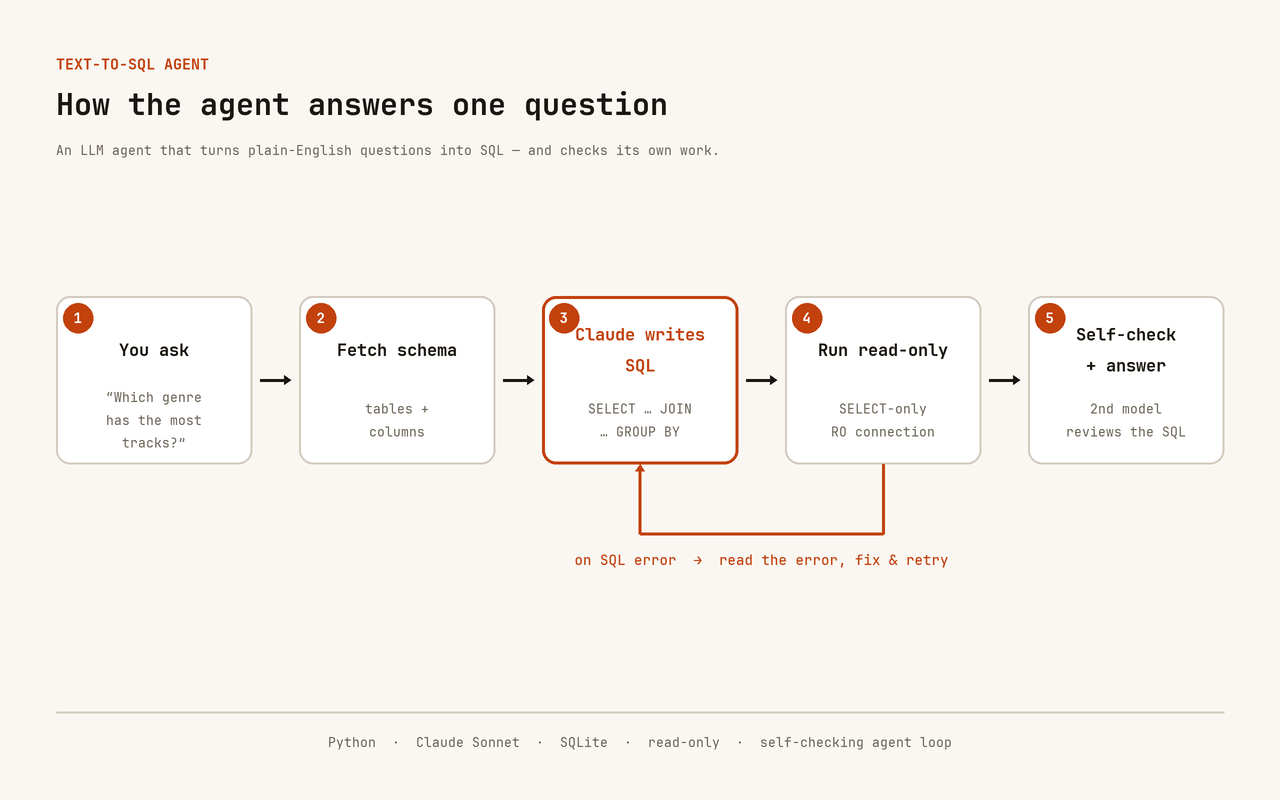
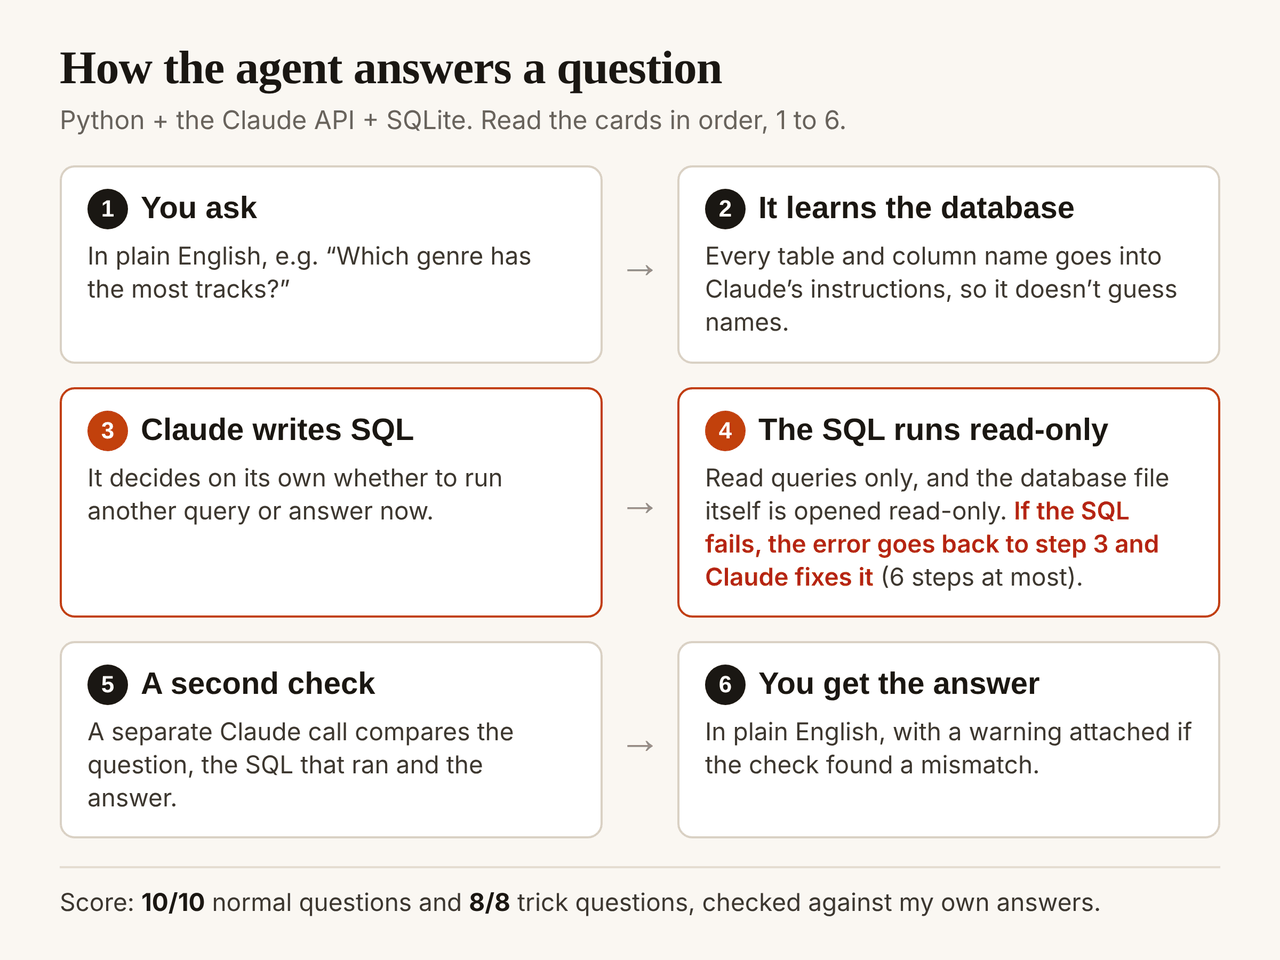
Plainer case-study copy and a readable Text-to-SQL diagram
Explain GMV, deciles and AUC in the bullets instead of assuming them,
merge the two round-two Knovus bullets, and swap the agent diagram for
one whose text is legible at column width. Olist: the customer deciles
rank orders (Olist's customer_id is per order), so say orders.

diff --git a/index.html b/index.html
@@ -111,10 +111,9 @@
                     actually answer them, fix what isn&rsquo;t working, and prove the fix works.
                 </p>
                 <ul class="findings">
-                    <li>Sampled 90 stored questions across 16 courses, each judged by three independent reviews: <strong>53% couldn&rsquo;t be fully attempted</strong>. The cause was a schema with no field for the full question, not the model.</li>
-                    <li>Wrote my manager a two-option proposal; he chose grading each question off its original page, which I built, so about <strong>2,400 existing questions needed no re-extraction</strong>. It was merged into the production branch on Sep 28, and he built on it with PowerPoint and Word previews.</li>
-                    <li>A page often holds several questions, so in round two I rebuilt each one as its own card, copied word for word from the file and checked by 9 rules plus a model, falling back to the original page when in doubt.</li>
-                    <li>Tested on 60 random production questions: <strong>37 clean cards, 0 serious errors</strong>, all 54 mistakes I planted caught, for about $0.37 in model calls. The one miss: it rejected 1 of 8 cards that were already right. Merged and switched on by default Oct 22; the team has since extended and reworked it.</li>
+                    <li>Sampled 90 stored questions across 16 courses, each judged by three independent reviews: <strong>53% couldn&rsquo;t be fully attempted</strong>. The cause wasn&rsquo;t the AI model: the format the questions were saved in had no place for the full question text.</li>
+                    <li>Wrote my manager a two-option proposal; he chose grading each question against its original page in the course file, which I built, so about <strong>2,400 existing questions kept working without being reprocessed</strong>. It was merged into the production code on Sep 28, and he built on it with PowerPoint and Word previews.</li>
+                    <li>A page often holds several questions, so in round two I turned each one into its own card, copied word for word and checked by 9 rules plus a model. On 60 random production questions: <strong>37 clean cards, 0 serious errors</strong>, all 54 mistakes I planted caught, for about $0.37 in model calls (it also wrongly rejected 1 of 8 cards that were already right). Merged and switched on by default Oct 22; the team has since reworked it.</li>
                     <li>My first grader evaluation scored a suspicious <strong>100%</strong> across 120 gradings, so I reported it as a failed test and made the cases harder. That exposed a false positive in the cheaper grader (1 of 20 wrong answers marked right), so the grader that shipped is the slower one that solves the problem first: <strong>0&nbsp;of&nbsp;20</strong>.</li>
                     <li>18 commits merged into the production branch across the FastAPI backend and Next.js frontend, including about 250 tests.</li>
                 </ul>
@@ -140,14 +139,14 @@
                 <h3>Amazon Revenue Analytics</h3>
                 <p class="standfirst">
                     Where does revenue concentrate, what&rsquo;s at risk next quarter, and where
-                    should the category budget go? A three-layer BI framework over 5,026 U.S.
-                    Amazon households, 2018–2022 — about 1.85M transactions.
+                    should the category budget go? Answered in SQL and Python on about 1.85M
+                    purchases from 5,026 U.S. Amazon households, 2018–2022.
                 </p>
                 <ul class="findings">
-                    <li>Top 10% of households drive <strong>35.9% of GMV</strong> (Gini 0.528) — and the gap is ~95% purchase frequency, not basket size.</li>
-                    <li>Mid-spend deciles 6–9 hold <strong>64% of revenue-at-risk</strong> on just 14% of GMV — the households worth protecting aren&rsquo;t the top spenders.</li>
+                    <li>The top 10% of households account for <strong>35.9% of all spending</strong> (Gini 0.528), and about 95% of their lead comes from ordering more often, not from bigger orders.</li>
+                    <li>The middle-to-lower spenders (deciles 6–9 of 10) hold <strong>64% of next quarter&rsquo;s revenue-at-risk</strong> on just 14% of spending, so the households worth protecting aren&rsquo;t the top spenders.</li>
                     <li>Caught a silent data failure midway: the raw file had been cut at a spreadsheet&rsquo;s <strong>1,048,576-row limit</strong>, dropping 43% of rows. Re-ran everything on the full file and added a preflight that fails loudly on a partial one.</li>
-                    <li>The drop-off model holds up on households it never saw: <strong>AUC 0.90</strong> under 5-fold cross-validation, versus 0.53 with shuffled labels. Bootstrap 95% CIs on the demographic, model and category results, and SQL and Python cross-check each other on every aggregate.</li>
+                    <li>The drop-off model holds up on households it never saw: <strong>AUC 0.90</strong>, where 0.5 is a coin flip (and 0.53 when trained on shuffled outcomes). Key results carry 95% confidence intervals, and SQL and Python cross-check every total.</li>
                 </ul>
                 <p class="feature-links">
                     <a href="https://github.com/lilwan345/amazon-revenue-analytics" target="_blank" rel="noopener">GitHub&nbsp;↗</a>
@@ -170,13 +169,14 @@
                 <p class="kicker">Jan – Apr 2026 · PostgreSQL · R (tidyverse) · HTML/JS</p>
                 <h3>Marketplace Revenue Risk — Olist</h3>
                 <p class="standfirst">
-                    Revenue stability, concentration, and cash-flow timing across 96K+
-                    delivered orders on a Brazilian marketplace, quantified with
-                    industry-standard measures.
+                    How steady a Brazilian marketplace&rsquo;s revenue is, how much of it
+                    depends on one region and a few big orders, and how long the cash
+                    takes to arrive, across 96K+ delivered orders.
                 </p>
                 <ul class="findings">
-                    <li>Top 10% of customers drive <strong>38% of revenue</strong> — Gini 0.475, HHI 0.18, CV 0.42.</li>
-                    <li>São Paulo alone drives <strong>37% of revenue</strong>, and ~64% of revenue arrives in installments (avg 4.12) — a long working-capital cycle.</li>
+                    <li>The top 10% of orders bring in <strong>38% of revenue</strong> (Gini 0.475), and São Paulo alone brings in <strong>37%</strong>.</li>
+                    <li>About 64% of revenue is paid in installments, 4.12 on average, so cash arrives well after the sale.</li>
+                    <li>Monthly revenue swings a lot (CV 0.42), but much of that is 2017&rsquo;s fast growth; with the trend removed, the swings are smaller.</li>
                 </ul>
                 <p class="feature-links">
                     <a href="https://github.com/lilwan345/Marketplace-Revenue-Risk-Financial-Stability-Analysis" target="_blank" rel="noopener">GitHub&nbsp;↗</a>
@@ -189,11 +189,11 @@
         <article class="feature flip reveal">
             <figure class="feature-media">
                 <a href="assets/img/text-to-sql-workflow.png" target="_blank" rel="noopener" aria-label="Open the agent-loop diagram full size">
-                    <img src="assets/img/text-to-sql-workflow-1280.png" srcset="assets/img/text-to-sql-workflow-1280.png 1280w, assets/img/text-to-sql-workflow.png 2560w"
-                         sizes="(min-width: 820px) 486px, 100vw" alt="Five-step diagram of the Text-to-SQL agent: you ask, fetch schema, Claude writes SQL, run read-only (on a SQL error, read it and retry), then a self-check before answering"
-                         width="2560" height="1600" loading="lazy">
+                    <img src="assets/img/text-to-sql-workflow-1280.png" srcset="assets/img/text-to-sql-workflow-1280.png 1280w, assets/img/text-to-sql-workflow.png 2400w"
+                         sizes="(min-width: 820px) 486px, 100vw" alt="Six steps: you ask in plain English; every table and column name goes into Claude's instructions; Claude writes SQL; it runs read-only, and on an error goes back to Claude to fix; a second Claude call checks the answer; you get the answer, with a warning if the check found a mismatch"
+                         width="2400" height="1800" loading="lazy">
                 </a>
-                <figcaption>The loop: Claude writes the SQL, runs it read-only, reads its own errors, and decides when it&rsquo;s done.</figcaption>
+                <figcaption>Steps 3 and 4 are the loop: Claude writes the SQL, reads any error, fixes it, and decides when it&rsquo;s done.</figcaption>
             </figure>
             <div class="feature-text">
                 <p class="kicker">Jun – Jul 2026 · Python · Claude API · SQLite · pytest</p>
@@ -204,9 +204,9 @@
                     work — then tested like a BI tool, not a demo.
                 </p>
                 <ul class="findings">
-                    <li><strong>10/10</strong> on a clean benchmark (simple counts up to 4-table joins) and <strong>8/8 correct SQL</strong> on an adversarial set — synonym traps, temporal filters, NULLs, ambiguous metrics — all against independently computed ground truth.</li>
-                    <li>The adversarial set exposed a <strong>confident-guessing failure mode</strong>: on vague questions the agent silently picks one interpretation instead of flagging it — the exact risk that matters for self-serve BI.</li>
-                    <li>A second-pass self-check reviews each answer against the SQL and schema, turning silently-wrong answers into flagged ones. 48 offline tests (a scripted fake client, no API key) run in CI on every push.</li>
+                    <li><strong>10/10</strong> on a clean benchmark (simple counts up to 4-table joins) and <strong>8/8 correct SQL</strong> on a set of trick questions (synonyms, date filters, missing values, vague metrics), all checked against answers I computed myself.</li>
+                    <li>The trick questions exposed a <strong>confident-guessing failure mode</strong>: on vague questions the agent silently picks one reading instead of saying which, the exact risk that matters when non-analysts ask their own questions.</li>
+                    <li>A second check reviews each answer against the SQL that ran, so a quietly wrong answer comes with a warning instead. 48 automated tests (no API key needed) run on every push.</li>
                 </ul>
                 <p class="feature-links">
                     <a href="https://github.com/lilwan345/text-to-sql-agent" target="_blank" rel="noopener">GitHub&nbsp;↗</a>
